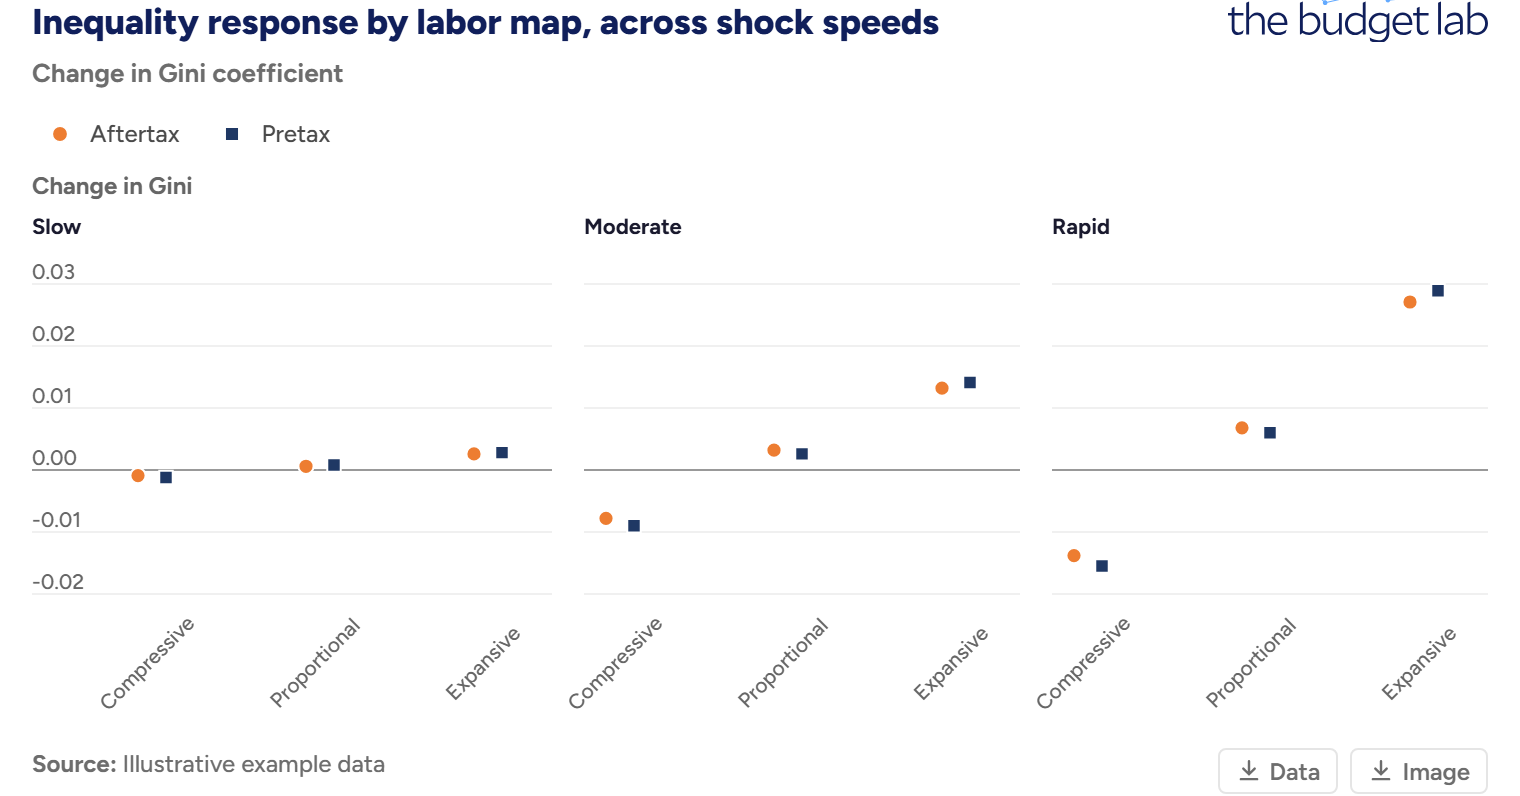
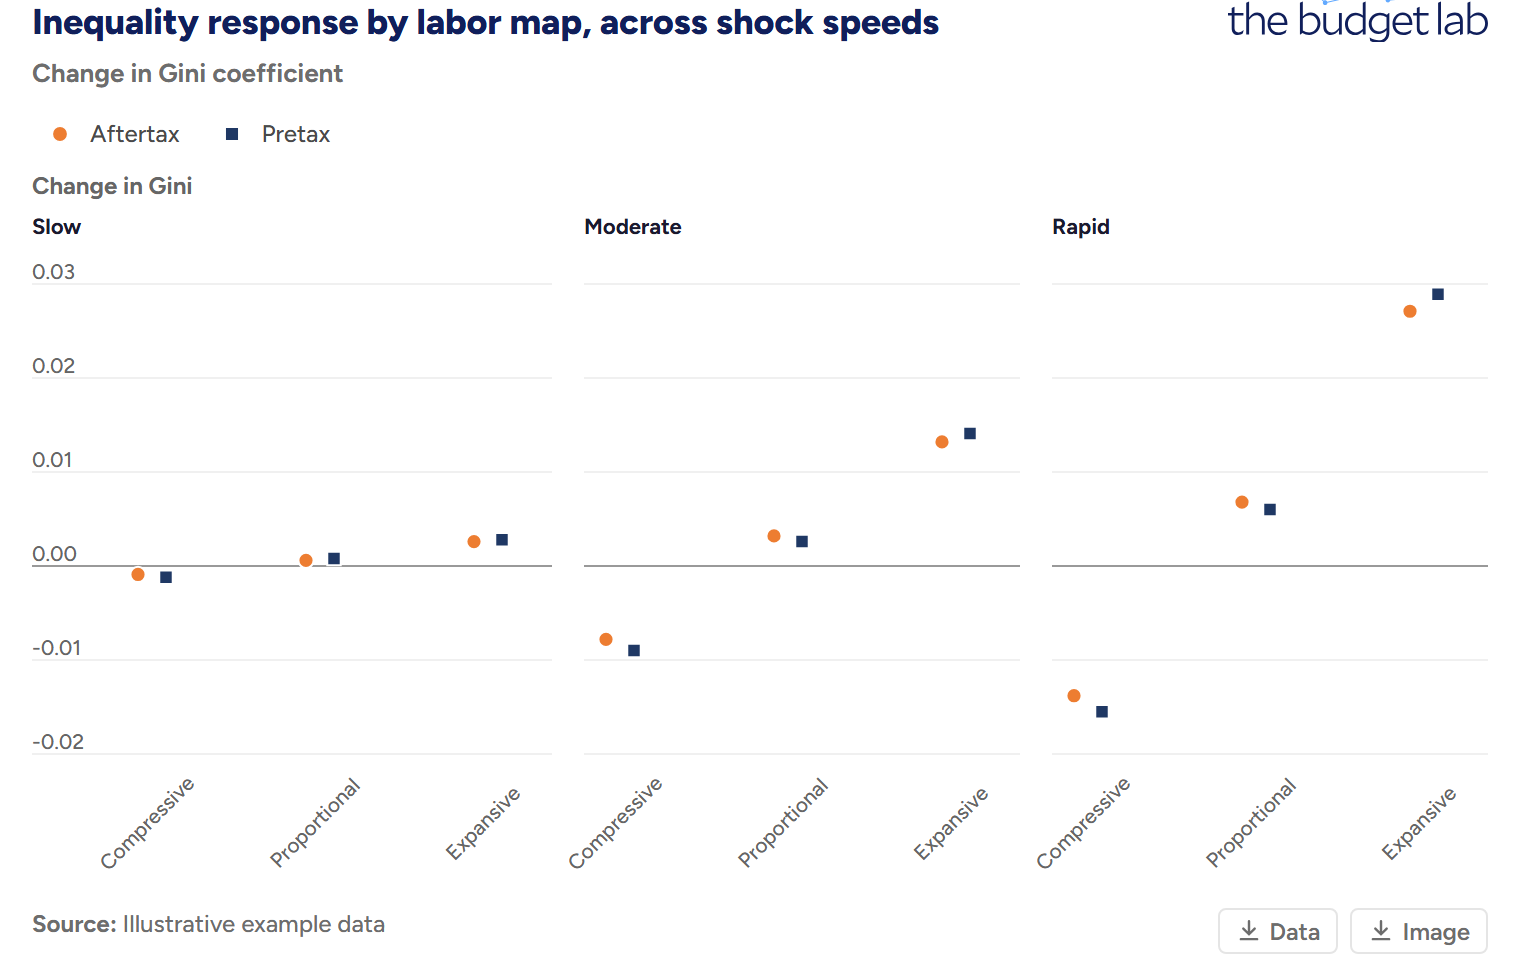
Point charts: stacked scatter legend, coordinated dotplot hover, taller panes
- scatter two-group legend stacks (color row over shape row) instead of inline
- faceted dotplot uses the coordinated category cursor like bar/line facets:
  hovering a category shades the band + shows per-series value pills on every
  pane (secondary categorical cursor gains a band-shade mode)
- dotplot panes render ~33% taller (240→320)

diff --git a/src/engine/render-live.ts b/src/engine/render-live.ts
@@ -906,10 +906,13 @@ function wireFigureSvg(
     onResolve?: (key: unknown) => void;
   },
 ): ((key: unknown, active?: boolean) => void) | undefined {
-  // Point charts (scatter / dotplot): per-pane hover (no coordinated cursor / selection in v1).
-  // Dot-plot panes get the category hover; scatter panes get per-point hover. Return no driver
-  // (the coordinated-cursor bus stays inactive for point figures).
+  // Dot-plot panes behave like the other faceted charts: a coordinated category cursor. Hovering
+  // a category shades that band + shows per-series value pills on EVERY pane (and highlights the
+  // category on the hovered pane). Mirrors the bar/line coordinated path; resolves the category
+  // from axis-label centers (points have no rects). The marker dots take each series' symbol.
   if (ctx.spec.chartType === "dotplot") {
+    const dotUseCoord = ctx.onResolve != null;
+    const symbols = new Map(ctx.seriesOrder.map((s, i) => [s, markerSymbolForIndex(i)] as const));
     attachCategoricalLineCrosshair(svg, {
       rows: ctx.dataInScope.map((r) => ({ _xc: r._xc, series: r.series, _y: r._y })),
       colors: ctx.colors,
@@ -917,7 +920,19 @@ function wireFigureSvg(
       seriesOrder: ctx.seriesOrder,
       yFormat: (v) => formatValue(v, ctx.units),
       bandHighlight: true,
+      ...(dotUseCoord ? { emitOnly: true, onResolve: (cat: string | null) => ctx.onResolve!(cat) } : {}),
     });
+    if (dotUseCoord) {
+      return attachSecondaryCategoricalLineCursor(svg, {
+        rows: ctx.dataInScope.map((r) => ({ _xc: r._xc, series: r.series, _y: r._y })),
+        colors: ctx.colors,
+        seriesLabels: ctx.seriesLabels,
+        seriesOrder: ctx.seriesOrder,
+        yFormat: (v) => formatValue(v, ctx.units),
+        symbols,
+        bandHighlight: true,
+      }) as (key: unknown, active?: boolean) => void;
+    }
     return undefined;
   }
   if (ctx.spec.chartType === "scatter") {
@@ -1153,6 +1168,8 @@ function mountFigure(container: HTMLElement, opts: MountOptions): () => void {
   // fits at common widths instead of collapsing to 2.
   const isPointFigure = spec.chartType === "dotplot" || spec.chartType === "scatter";
   const paneMinWidth = isPointFigure ? 160 : PANE_MIN_WIDTH;
+  // Dot-plot panes render ~33% taller so the vertically-spread points have room to read.
+  const paneHeight = spec.chartType === "dotplot" ? 320 : PANE_HEIGHT;
 
   const drawGrid = (outerWidth: number): void => {
     const baseCols = sm.columns && sm.columns > 0 ? sm.columns : 0; // 0 → reflow-driven
@@ -1172,10 +1189,10 @@ function mountFigure(container: HTMLElement, opts: MountOptions): () => void {
         ? renderFigure(spec, rows, {
             gridWidth: outerWidth,
             gridGap: GRID_GAP,
-            height: PANE_HEIGHT,
+            height: paneHeight,
             columns: cols,
           })
-        : renderFigure(spec, rows, { width: paneW, height: PANE_HEIGHT, columns: cols });
+        : renderFigure(spec, rows, { width: paneW, height: paneHeight, columns: cols });
     } catch (e) {
       grid.innerHTML = `<div class="figure-error">${(e as Error).message}</div>`;
       return; // leave lastSig unchanged so a same-width re-render retries after a fix

diff --git a/src/engine/crosshair.ts b/src/engine/crosshair.ts
@@ -2051,7 +2051,15 @@ export function attachSecondaryCategoricalLineCursor(
     const vals = valByCat.get(category);
     if (!c || !vals) { g.setAttribute("opacity", "0"); return; }
     const cx = c.cx;
-    addCoordGuide(g, doc, cx, mt, mt + plotH);
+    if (opts.bandHighlight) {
+      // Shade the category's full band (bar-style) on every pane, matching the primary hover.
+      const bands = widenBandsToMidpoints(centers.map((x) => ({ min: x.cx, max: x.cx })), ml, W - mr);
+      const idx = centers.findIndex((x) => x.category === category);
+      const b = bands[idx];
+      if (b) addCoordRegion(g, doc, b.min, b.max - b.min, mt, plotH);
+    } else {
+      addCoordGuide(g, doc, cx, mt, mt + plotH);
+    }
     if (active) {
       const ys = axisRows.get();
       if (ys.length) addCoordCategoryHighlight(g, doc, svgEl, mt + plotH, cx, category, detectBandLabelMode(svgEl, mt + plotH), ys);

diff --git a/src/embed/styles.ts b/src/embed/styles.ts
@@ -329,7 +329,13 @@ body {
   align-items: center;
   justify-content: center;
 }
-/* Two-group (color + shape) point legend: each group is a labeled inline cluster. */
+/* Two-group (color + shape) point legend: groups STACK on separate lines (color row, then
+   shape row), each group an inline cluster of swatches. */
+.tbl-legend--grouped {
+  flex-direction: column;
+  align-items: flex-start;
+  gap: 2px 0;
+}
 .tbl-legend-group {
   display: inline-flex;
   flex-wrap: wrap;

diff --git a/src/engine/legend.ts b/src/engine/legend.ts
@@ -110,6 +110,8 @@ export function renderLegend(
   // Two-group layout: a color group + a shape group, each an inline cluster with an optional
   // heading. Single-group (the common case) appends items directly to the legend, unchanged.
   const twoGroup = hasShape;
+  // Two-group (color + shape) point legend stacks the groups on separate lines.
+  if (twoGroup) legend.classList.add("tbl-legend--grouped");
   let colorContainer: HTMLElement = legend;
   let shapeGroup: HTMLElement | null = null;
   if (twoGroup) {